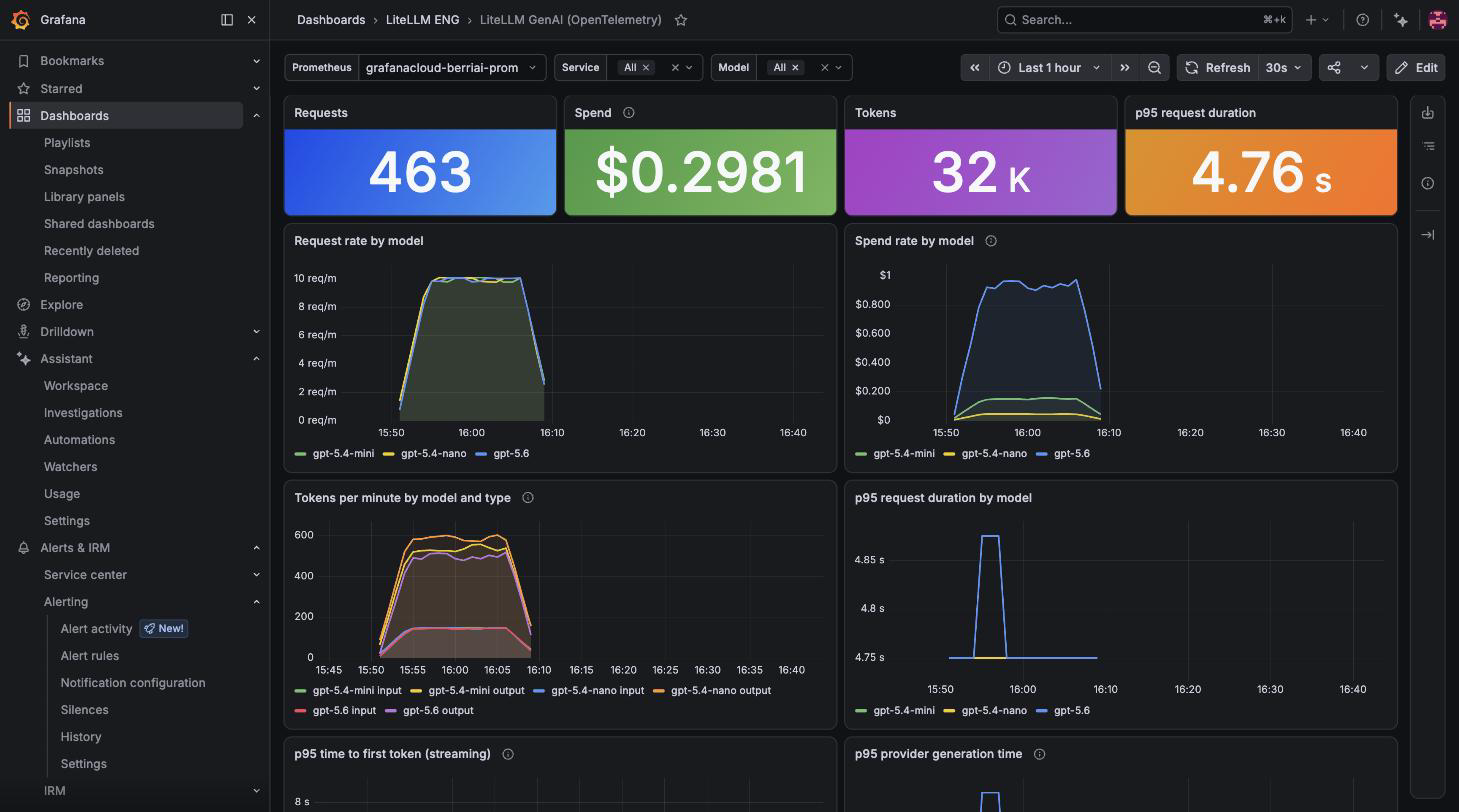
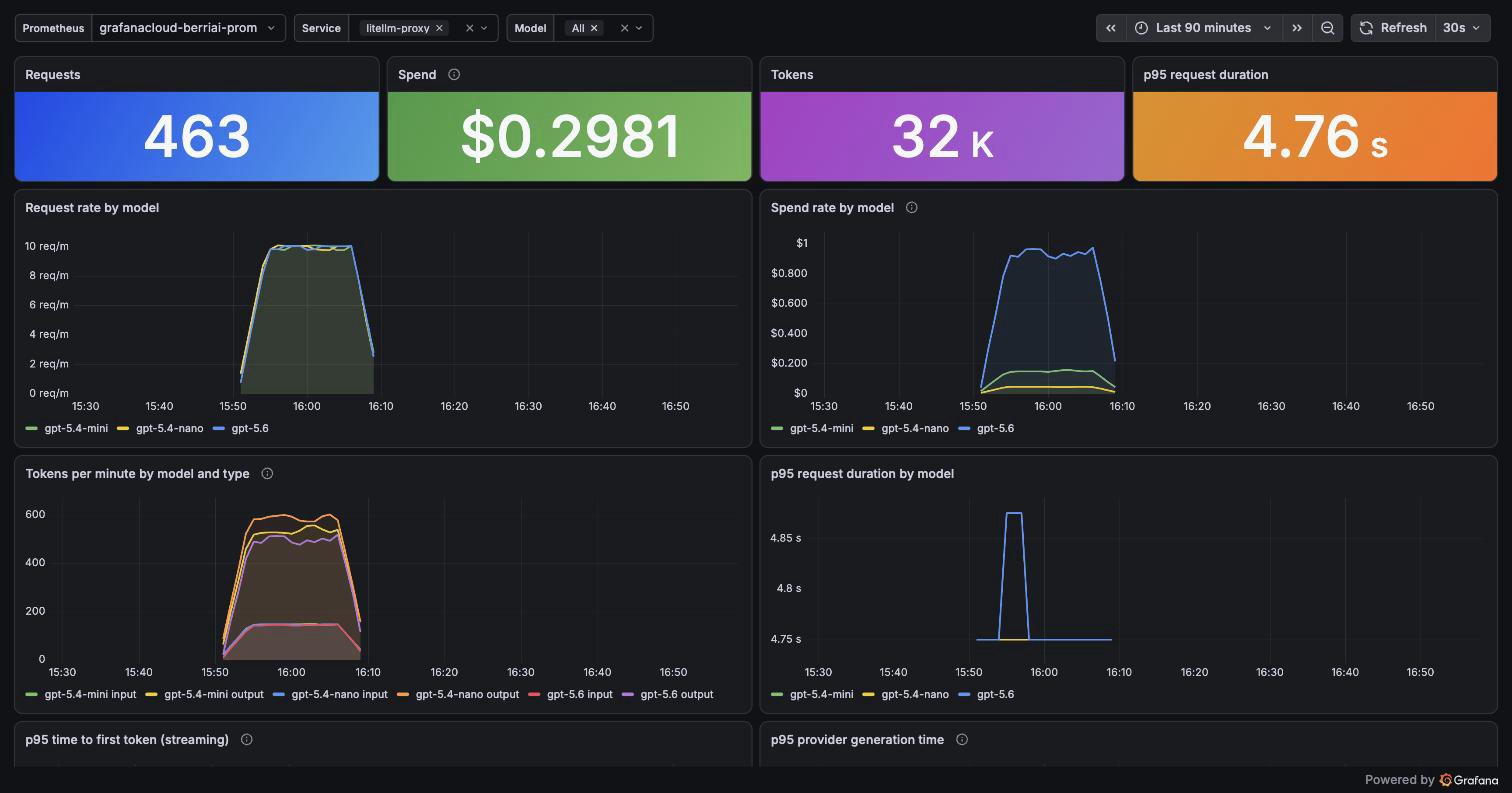
docs(grafana): replace the sparse metric screenshot and add the dashboard view
grafana_cloud_metrics.png was captured from a nine-request run, so it showed a
single data point as a flat grey line and demonstrated nothing. It is replaced
with spend by model over a sustained run: three clearly separated series across a
fourteen minute window. A token-throughput graph is added next to it, and the
dashboard screenshot is recaptured in kiosk mode so all four stat tiles and four
charts are fully visible rather than clipped mid-panel.

diff --git a/docs/observability/grafana_cloud.md b/docs/observability/grafana_cloud.md
@@ -58,7 +58,9 @@ Each request is one trace: the server span for the route, an `auth` span, and a 
 
 Metrics arrive as OTLP histograms and are queryable in **Explore**, with your hosted Prometheus selected, under their Prometheus-normalized names:
 
-![LiteLLM GenAI cost metric in Grafana Cloud](/img/observability/grafana_cloud_metrics.png)
+![LiteLLM GenAI spend by model in Grafana Cloud](/img/observability/grafana_cloud_metrics.png)
+
+![LiteLLM token throughput by model in Grafana Cloud](/img/observability/grafana_cloud_token_rate.png)
 
 
 | LiteLLM instrument | Queryable as |
